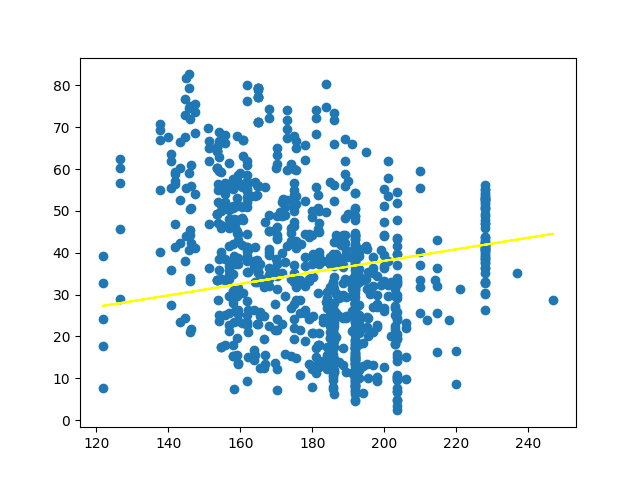
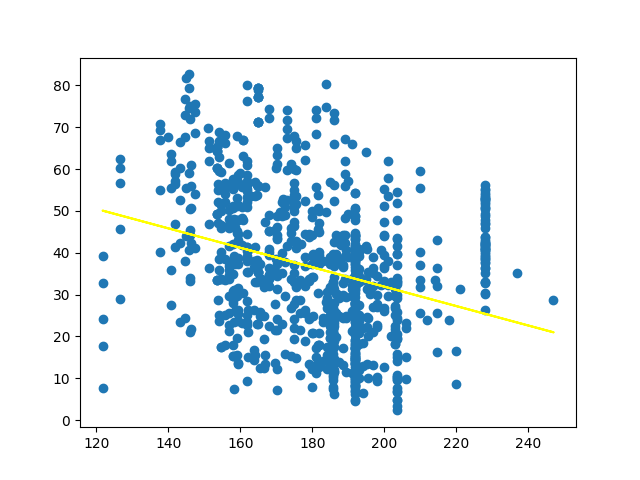
use mean normalization to preprocess data

diff --git a/algorithms/univariate.py b/algorithms/univariate.py
@@ -1,6 +1,8 @@
 import math
 import matplotlib.pyplot as plt
 import numpy as np
+from algorithms import variance_explained
+
 
 def run(data):
     y = data[:, -1]
@@ -10,15 +12,23 @@ def run(data):
         m = 10
         b = 10
         x = data[:, column]
+        mean = x.mean()
+        max_ = x.max()
+        min_ = x.min()
+
+        def mean_normalization(val):
+            return (val - mean) / (max_ - min_)
+        normalized_x = np.vectorize(mean_normalization)(x)
+
         partial_m = 10
         partial_b = 10
         last_loss = math.inf
         count = 0
         step_size = 0.00001
-        while abs(partial_m) + abs(partial_b) > 0.01 and count < 10000:
-            loss = ((y - x * m - b) ** 2).sum() / row_count
-            partial_m = (-2 * x * (y - m * x - b)).sum() / row_count
-            partial_b = (-2 * (y - m * x - b)).sum() / row_count
+        while abs(partial_m) + abs(partial_b) > 0.01 and count < 100000:
+            loss = ((y - normalized_x * m - b) ** 2).sum() / row_count
+            partial_m = (-2 * normalized_x * (y - m * normalized_x - b)).sum() / row_count
+            partial_b = (-2 * (y - m * normalized_x - b)).sum() / row_count
 
             m -= step_size * partial_m
             b -= step_size * partial_b
@@ -29,15 +39,17 @@ def run(data):
             last_loss = loss
             # print(f"loss:{loss}, partial_m:{partial_m}, partial_b:{partial_b}")
             count += 1
-        # print(last_loss)
 
+        # print(last_loss)
 
         def predicted(n):
             return m * n + b
-        np.vectorize(predicted)(x)
+
+        predicted = np.vectorize(predicted)(normalized_x)
         plt.scatter(x, y)
-        plt.plot(x, np.vectorize(predicted)(x), color="yellow")
+        plt.plot(x, predicted, color="yellow")
         plt.savefig(f"results/univariate/{column}")
         plt.clf()
         result.append([m, b])
+        print(variance_explained.calc(predicted, y))
     return result
